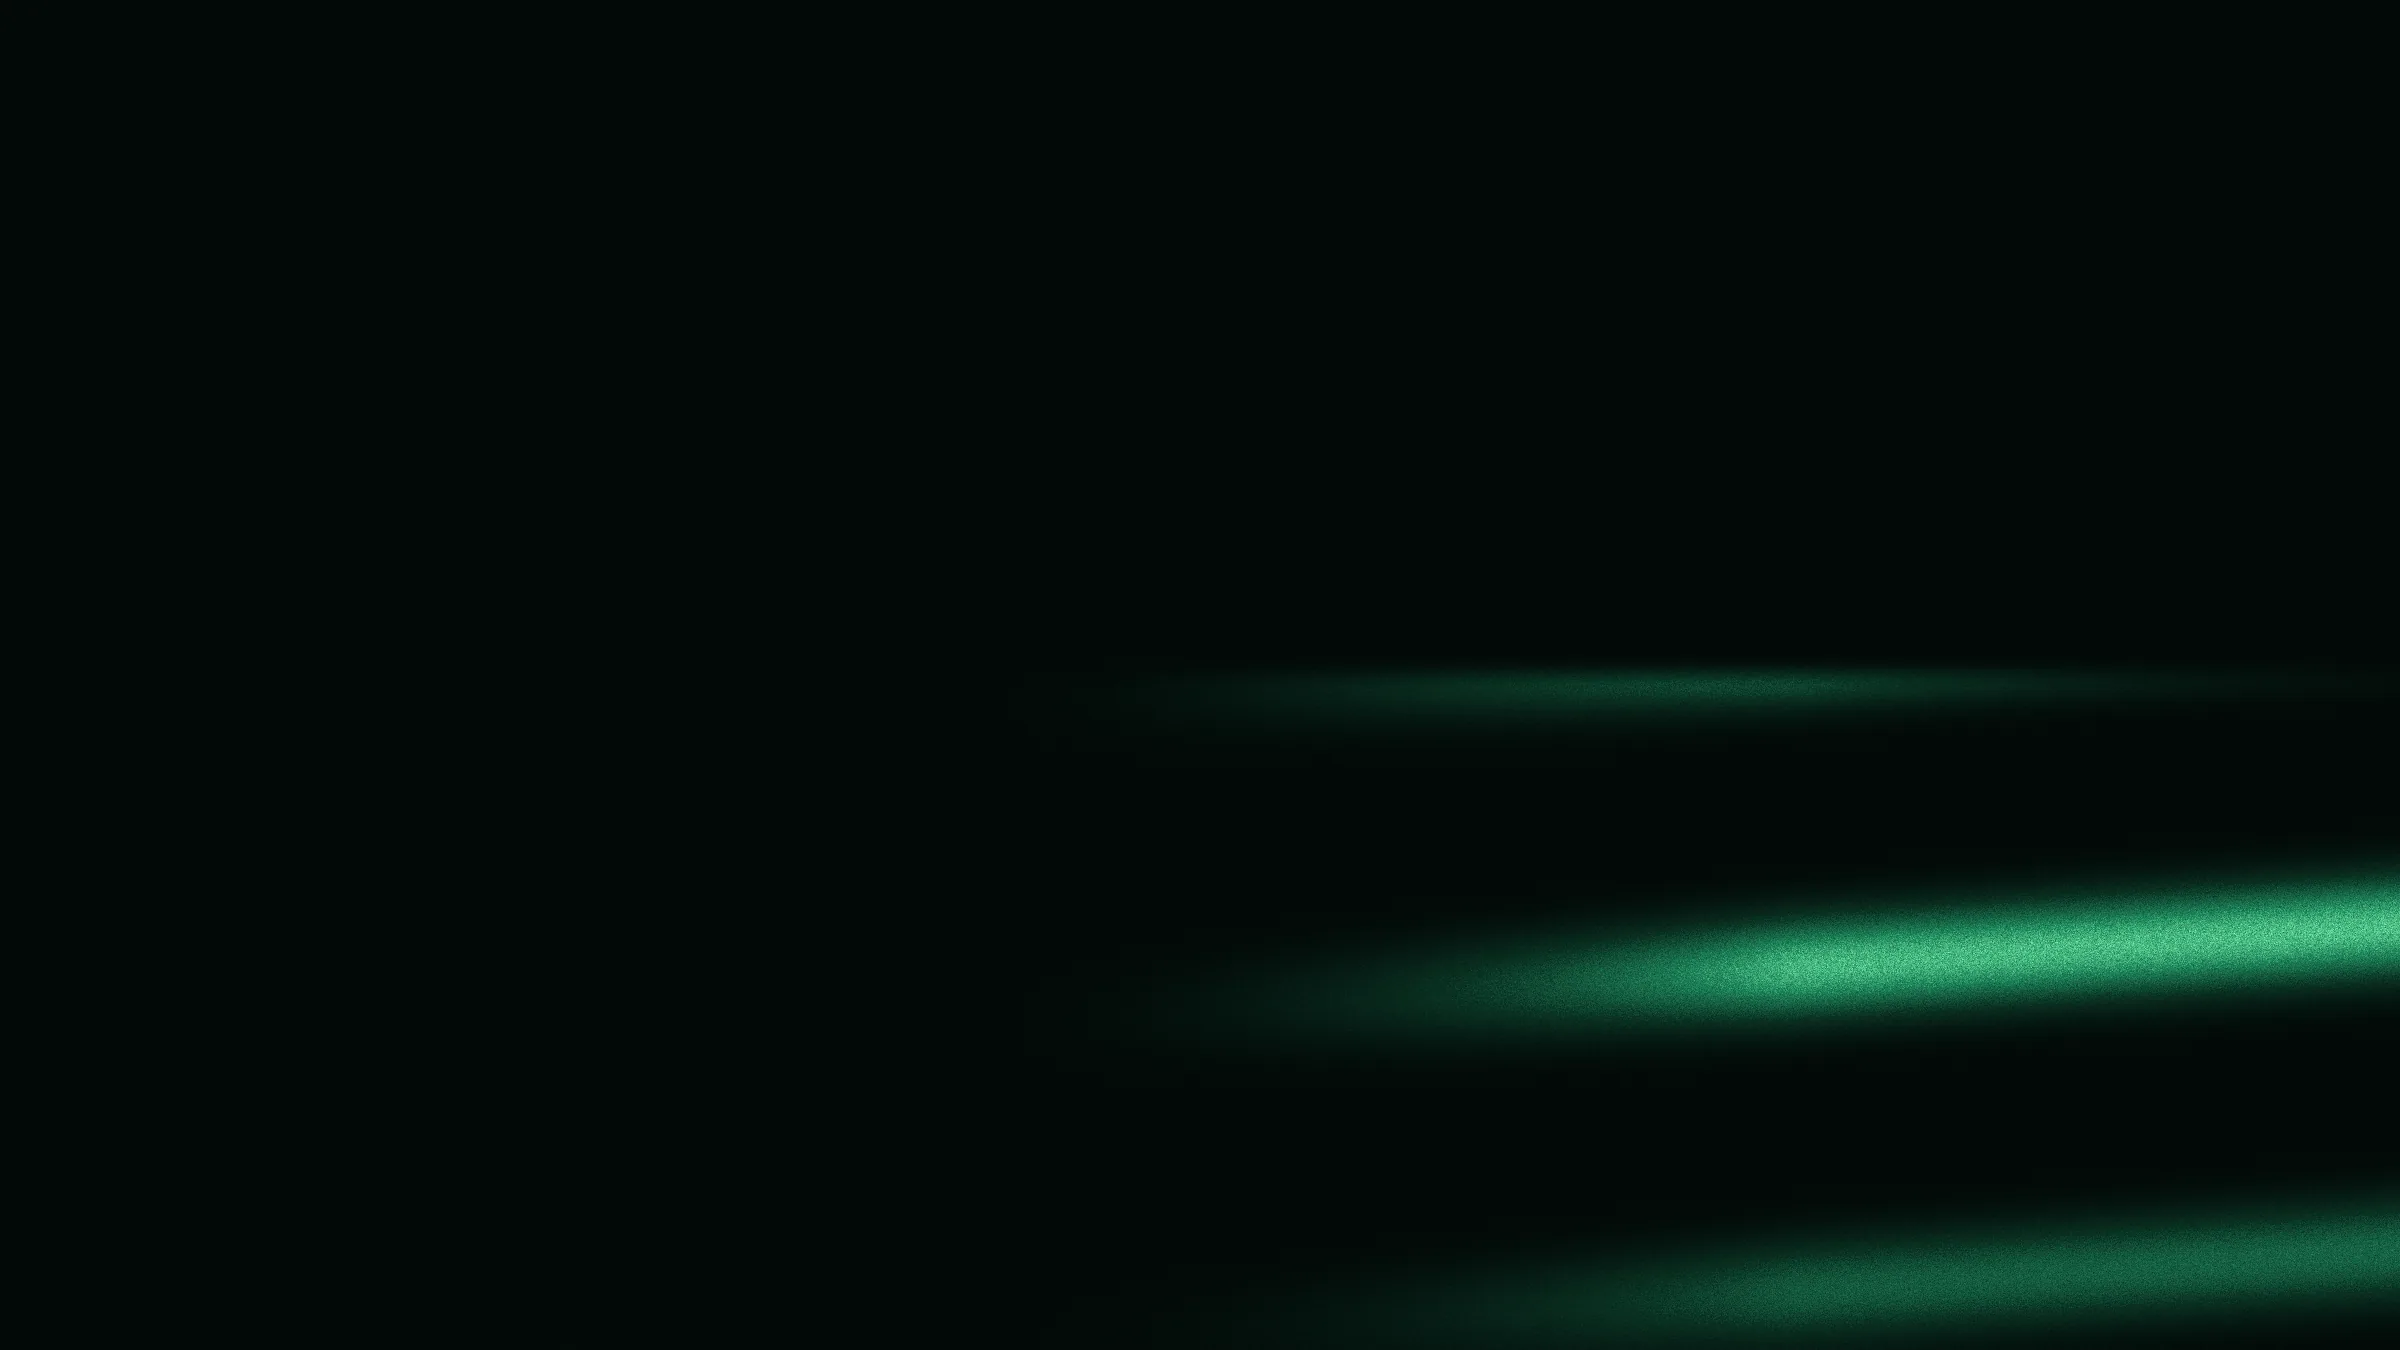
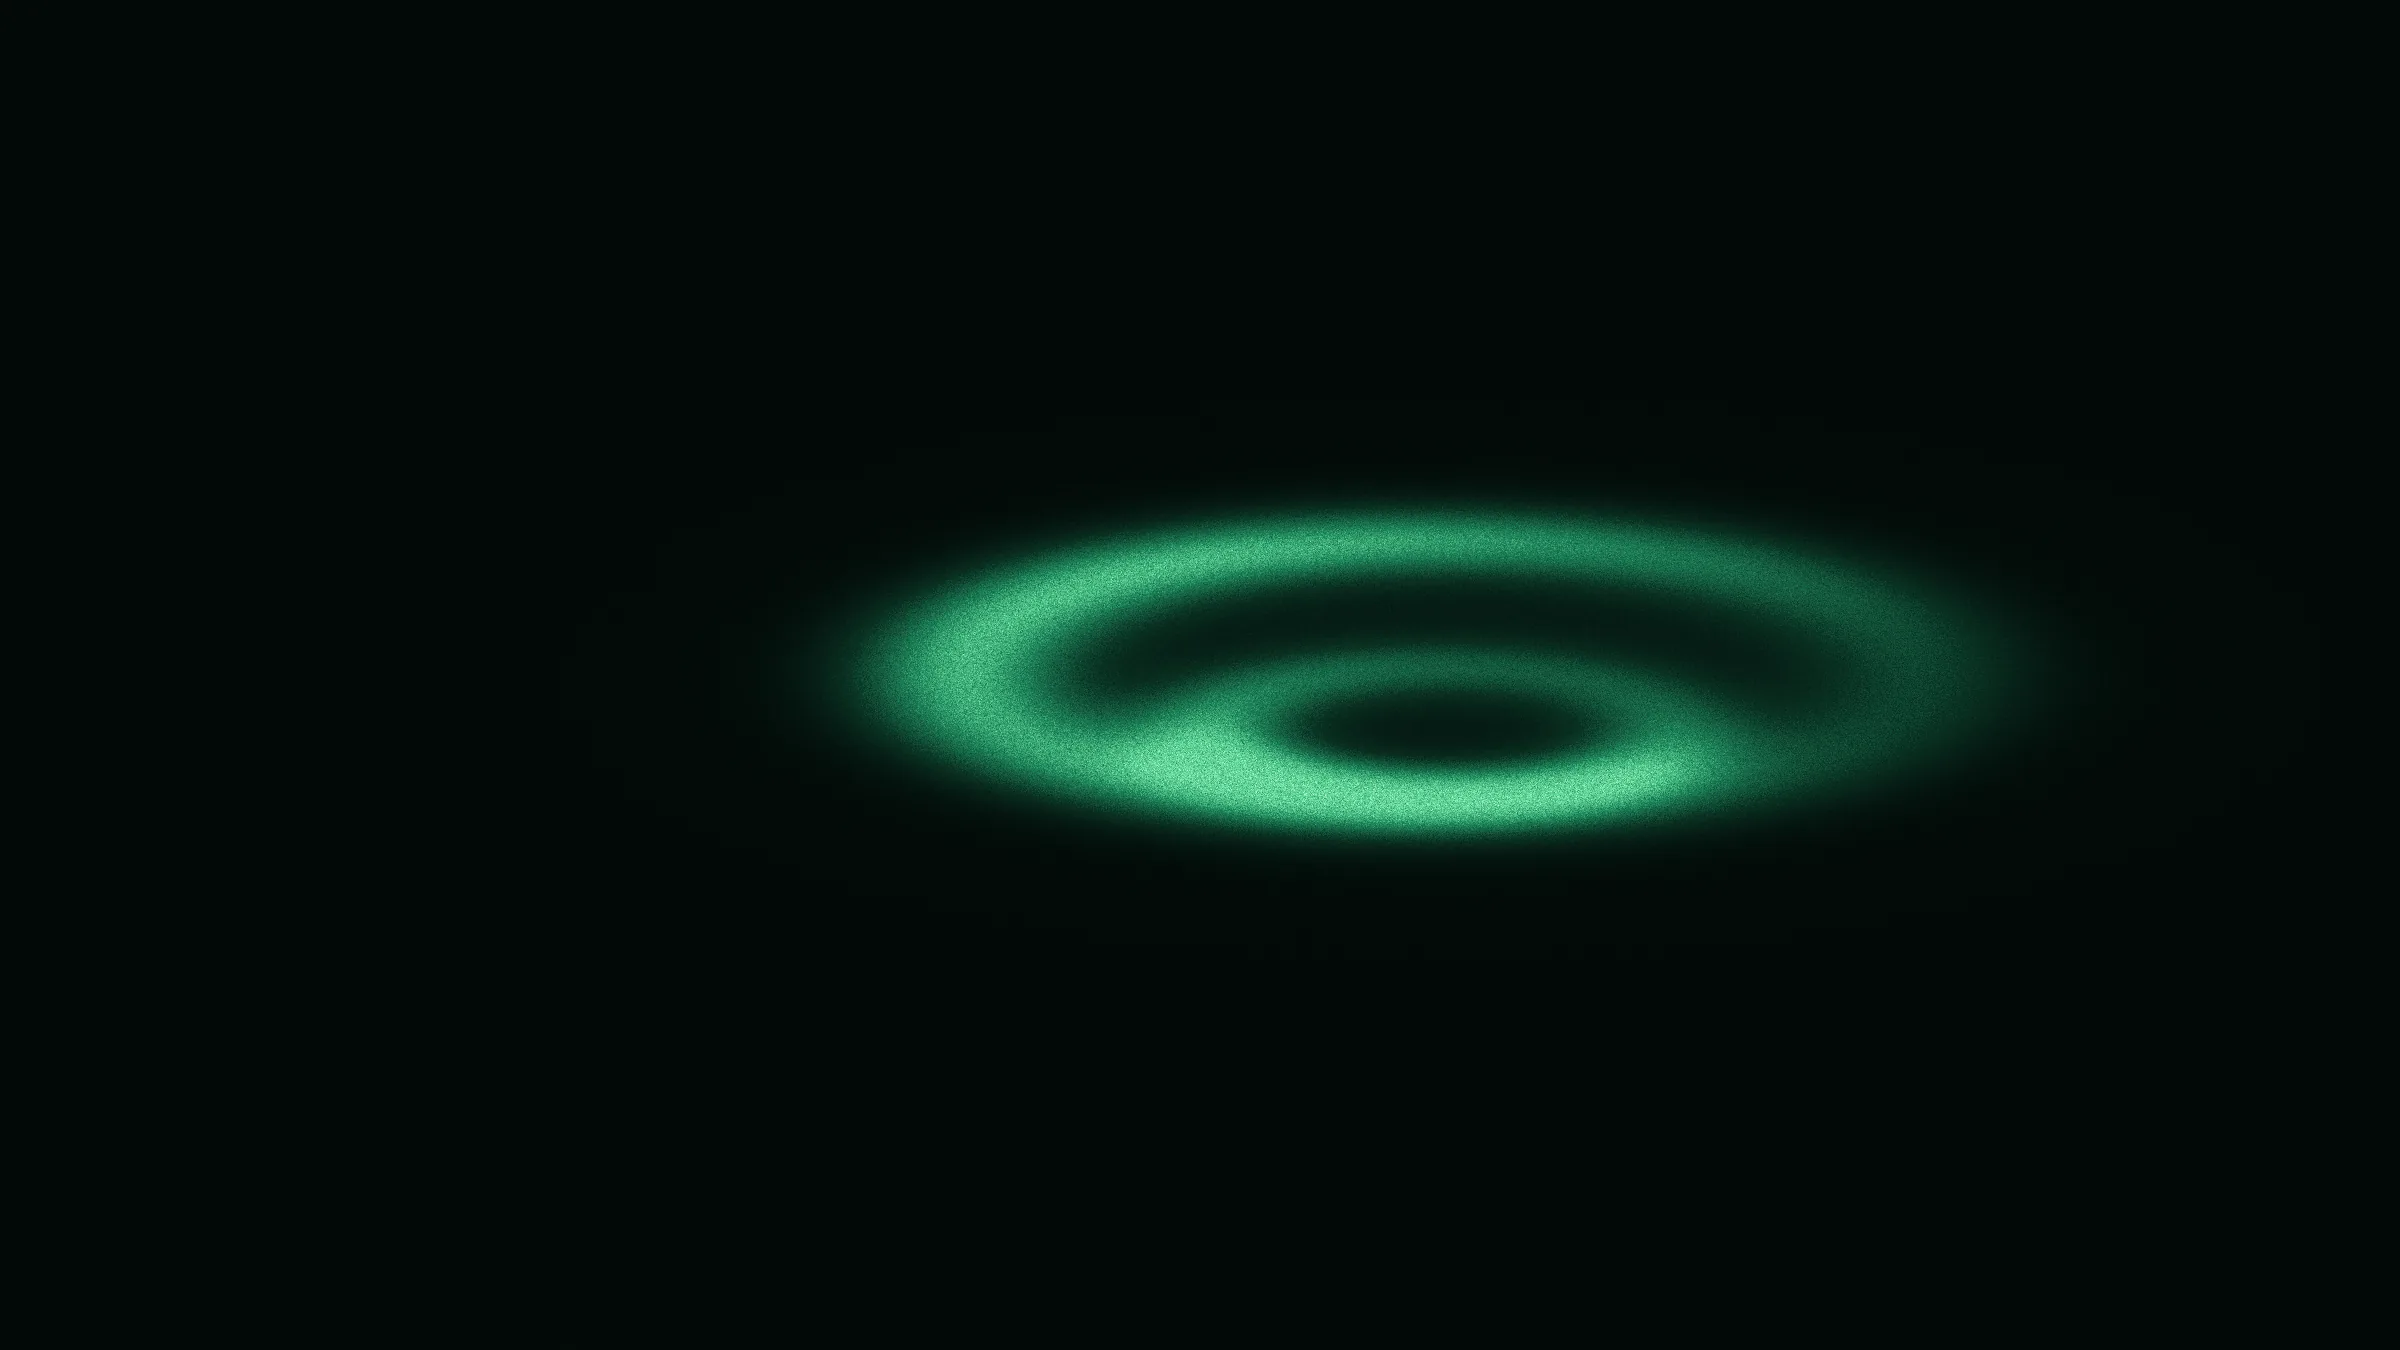
fix(backdrop): Contact V 파 방향 반전, About 을 히어로 RING 의 수평 변주로 교체
- Contact: 화살표가 왼쪽을 가리키고 있었다. 꼭짓점을 오른쪽(0.88)으로 옮기고
  `behind = -x` 로 뒤집어 오른쪽(전진)을 가리키게 했다. 부호 하나가 방향을 정한다
- About: 일자 수평파(PLANE)에서 **히어로 RING 의 수평 변주**로 교체.
  좌표계 세로를 3.6 배 눌러 원을 가로 타원으로 만들면 고리의 호가 수평 띠처럼
  읽힌다. 첫 화면과 같은 형태로 같은 말을 하되 페이지 배경이라 눕힌 것이다.
  띠만 남으면 히어로와의 연결이 끊긴다는 판단

PLANE 은 어휘 표에 남겨 두되 현재 미사용으로 표시했다 — 파원 구성으로서는
유효하고 필요해지면 다시 쓸 수 있다. 교체 사실도 문서에 기록했다.

Services(NODE) · Technology(WAVEFRONT) · Projects(LATTICE) 는 손대지 않았다.
측정: about 6.2% · contact 5.0% — 상한 20% 안.

Changed region(s): [[0.3438, 0.3733, 0.8438, 0.6533], [0.5625, 0.6222, 1.0, 0.7778], [0.625, 0.8711, 1.0, 0.9956]]

diff --git a/src/content/media.ts b/src/content/media.ts
@@ -32,14 +32,14 @@ export const mediaManifest = mediaManifestSchema.parse({
   "about-backdrop": {
     kind: "image",
     src: "/media/about-field.webp",
-    alt: "완만하게 기운 초록빛 수평 파동 띠",
+    alt: "가로로 길게 늘어난 초록빛 고리 형태의 광장(光場)",
     clearance: "self-produced",
   },
   // Contact 페이지 전체 배경 — 홈 CTA 와 같은 간섭 무늬를 넓고 조용하게.
   "contact-backdrop": {
     kind: "image",
     src: "/media/contact-page-field.webp",
-    alt: "왼쪽 꼭짓점에서 퍼져 나가는 초록빛 V 자 파면",
+    alt: "오른쪽을 가리키는 초록빛 V 자 파면",
     clearance: "self-produced",
   },
   // 본문 페이지 전체 배경 3종 — About·Contact 보다 밝고 파동의 중심이 화면 안에 있다.

diff --git a/scripts/gen-fields.py b/scripts/gen-fields.py
@@ -7,8 +7,8 @@
 생성물:
   home-hero-field.webp     겹친 고리 — 토로이달 발광체 (RING)
   home-contact-field.webp  두 파동원의 간섭 무늬 — 쌍곡선 프린지 (FRINGE)
-  about-field.webp         일자 수평파 (PLANE) — About 페이지 배경
-  contact-page-field.webp  V 파 · 뱃머리파 (BOW) — Contact 페이지 배경
+  about-field.webp         RING 의 수평 변주 — About 페이지 배경
+  contact-page-field.webp  V 파 · 뱃머리파 (BOW, 오른쪽 방향) — Contact 페이지 배경
   services-field.webp      정상파의 마디 (NODE) — Services 페이지 배경
   projects-field.webp      확정된 코어 (RING) — Projects 페이지 배경
   technology-field.webp    중심이 보이는 파면 (WAVEFRONT) — Technology 페이지 배경
@@ -169,46 +169,56 @@ def render_icon(path: pathlib.Path, size: int) -> None:
 
 
 def build_about_field() -> np.ndarray:
-    """일자 수평파. 파원이 무한히 먼 **평면파**다.
+    """히어로의 `RING` 을 **가로로 늘인 것**. 같은 형태의 축척 변주다.
 
-    뜻(컨셉 §2): 파면 — 다만 곡률이 사라진 상태. 방향이 하나로 정해져 흔들리지 않는다.
-    About 은 원칙을 말하는 자리이므로, 퍼져 나가는 파문보다 **가지런한 결**이 맞다.
+    뜻(컨셉 §2): 가능성의 장 — 히어로와 같다. 사이트 첫 화면과 About 이 같은 말을 하되,
+    About 은 페이지 전체 배경이므로 세로를 눌러 **수평으로 흐르게** 만든다.
 
-    구현: `cos(k·y)` 로 수평 띠를 만들고, 아주 약한 기울기를 줘 완전한 평행을 피한다.
-    수학적으로 완벽한 평행선은 인쇄물 무늬처럼 보인다.
+    새 형태가 아니다(컨셉 §4 — 파원 구성이 같다). 좌표계의 세로를 크게 곱하면
+    원이 가로로 긴 타원이 되고, 고리의 호가 수평 띠처럼 읽힌다.
     """
-    x, y = grid(0.55, 0.50, squash=1.0)
+    # squash 를 크게 줄수록 원이 가로로 납작해진다.
+    x, y = grid(0.60, 0.50, squash=3.6)
 
-    # 아주 약한 기울기 — 완전 수평이면 벽지가 된다.
-    phase = y * 13.0 + x * 0.9
-    bands = (0.5 + 0.5 * np.cos(phase)) ** 3.4
+    outer = ring(x, y, radius=0.72, width=0.185)
+    outer *= angular_weight(x, y, peak_deg=200, spread=0.55)
 
-    # 오른쪽으로 갈수록 또렷해진다. 왼쪽은 카피 자리라 비운다.
-    lateral = np.clip((x + 0.55) / 1.25, 0.0, 1.0) ** 1.6
-    vertical = np.exp(-((y / 1.15) ** 2.6))
+    inner_y = y - 0.30
+    inner = ring(x, inner_y, radius=0.34, width=0.135)
+    inner *= angular_weight(x, inner_y, peak_deg=115, spread=0.50)
 
-    field = bands * lateral * vertical
-    return np.clip(np.clip(field, 0.0, 1.0) ** 1.25 * 0.80, 0.0, 1.0)
+    halo = np.exp(-((np.sqrt(x**2 + y**2) / 1.00) ** 2)) * 0.24
+
+    field = outer * 0.92 + inner * 0.78 + halo
+
+    # 가장자리는 검정으로 — 왼쪽 카피 자리가 살아야 한다.
+    vignette = np.exp(-((np.sqrt((x / 1.45) ** 2 + (y / 2.60) ** 2)) ** 2.6))
+    field *= vignette
+
+    return np.clip(np.clip(field, 0.0, 1.0) ** 1.35 * 0.80, 0.0, 1.0)
 
 
 def build_contact_page_field() -> np.ndarray:
-    """V 파(뱃머리파). 움직이는 파원이 뒤로 남기는 쐐기 모양 파면.
+    """V 파(뱃머리파). 움직이는 파원이 뒤로 남기는 쐐기.
 
     뜻(컨셉 §2): 파면 — **시작점이 있고 거기서부터 퍼진다.**
     "START A PROJECT" 는 무언가가 출발하는 자리이므로 이 형태를 쓴다.
 
-    구현: 꼭짓점에서 `|y|` 와 `x` 의 선형 결합을 위상으로 삼으면 V 자 파면이 나온다.
-    꼭짓점 앞쪽(파원이 아직 지나지 않은 영역)은 비운다.
+    방향: 꼭짓점을 **오른쪽**에 두고 쐐기가 왼쪽으로 열린다 — 화살표가 오른쪽(전진)을 가리킨다.
+    구현: 꼭짓점 기준으로 `|y| − (꼭짓점까지의 거리)·기울기` 를 위상으로 삼는다.
+    꼭짓점 **바깥쪽**(파원이 아직 지나지 않은 영역)은 비운다.
     """
-    x, y = grid(0.30, 0.52, squash=1.0)
+    x, y = grid(0.88, 0.52, squash=1.0)
 
-    # 쐐기 각도 — 값이 작을수록 V 가 벌어진다.
+    # 꼭짓점 왼쪽이 양수가 되도록 뒤집는다 — 이 부호가 화살표 방향을 정한다.
+    behind = -x
+
     slope = 0.62
-    phase = (np.abs(y) - x * slope) * 15.0
+    phase = (np.abs(y) - behind * slope) * 15.0
     wedge = (0.5 + 0.5 * np.cos(phase)) ** 3.0
 
     # 쐐기 안쪽만 남긴다 — 꼭짓점 앞은 파면이 아직 도달하지 않은 자리다.
-    inside = np.clip((x * slope - np.abs(y) + 0.30) / 0.35, 0.0, 1.0)
+    inside = np.clip((behind * slope - np.abs(y) + 0.30) / 0.35, 0.0, 1.0)
 
     decay = np.exp(-((np.sqrt(x**2 + y**2) / 1.55) ** 2.0))
 

diff --git a/docs/비주얼_컨셉_파동과_간섭.md b/docs/비주얼_컨셉_파동과_간섭.md
@@ -98,6 +98,9 @@
 - 뜻: **가능성의 장.** 아직 확정되지 않은, 중심을 가진 에너지.
 - 구현: 중심 거리 기반 가우시안 고리 두 개를 겹치고 각도별로 밝기를 달리한다.
 - 쓰는 곳: **히어로** — 사이트의 첫 진술. "여기서부터 가능성을 펼친다."
+- **수평 변주**: 좌표계의 세로를 크게 곱하면(`squash`) 원이 가로로 긴 타원이 되고
+  고리의 호가 수평 띠처럼 읽힌다. **About 페이지 배경**이 이것이다 —
+  첫 화면과 같은 말을 하되 페이지 전체 배경이므로 눕혔다. 새 형태가 아니다.
 
 ### ② 프린지 — 두 파동원의 간섭 무늬 `FRINGE`
 
@@ -119,17 +122,20 @@
   사방으로 퍼뜨리면 동심원 과녁이 되어 형태가 죽는다.
 - 쓰는 곳: **Technology 페이지 배경** — 발원점을 화면 안에 두어 중심이 보인다.
 
-### ⑤ 평면파 — 일자 수평파 `PLANE` ✅
+### ⑤ 평면파 — 일자 수평파 `PLANE` _(구현했다가 교체됨)_
 
 - 뜻: 파면에서 **곡률이 사라진 상태.** 파원이 무한히 멀어 방향이 하나로 정해진다.
-- 구현: `cos(k·y)` 로 수평 띠. **아주 약한 기울기를 준다** — 완전한 평행선은 인쇄물 무늬로 보인다.
-- 쓰는 곳: **About 페이지 배경** — 원칙을 말하는 자리라 파문보다 가지런한 결이 맞다.
+- About 배경으로 한 번 적용했다가, 히어로와 같은 말을 하도록 **`RING` 의 수평 변주로 교체**했다.
+  띠만 남으면 사이트 첫 화면과의 연결이 끊긴다는 판단이다.
+- 어휘 표에는 남겨 둔다 — 파원 구성으로서는 유효하고, 필요해지면 다시 쓸 수 있다.
 
 ### ⑥ 뱃머리파 — V 파 `BOW` ✅
 
 - 뜻: **시작점이 있고 거기서부터 퍼진다.** 움직이는 파원이 뒤로 남기는 쐐기.
-- 구현: 꼭짓점에서 `|y| − x·기울기` 를 위상으로. 꼭짓점 **앞쪽은 비운다** —
+- 구현: 꼭짓점에서 `|y| − (꼭짓점까지 거리)·기울기` 를 위상으로. 꼭짓점 **바깥쪽은 비운다** —
   파원이 아직 지나지 않은 자리다.
+- **방향**: 꼭짓점을 오른쪽에 두어 화살표가 **오른쪽(전진)** 을 가리킨다.
+  부호 하나(`behind = -x`)가 방향을 정한다.
 - 쓰는 곳: **Contact 페이지 배경** — "START A PROJECT", 무언가가 출발하는 자리.
 
 ### ⑦ 격자 간섭 — 두 직교 평면파 `LATTICE` ✅
@@ -168,7 +174,7 @@
 
 | 자산               | 평균 휘도 | 밝은 화소 |
 | ------------------ | --------- | --------- |
-| about-field        | 12.1      | 3.8%      |
+| about-field        | 14.7      | 6.2%      |
 | technology-field   | 13.6      | 3.5%      |
 | contact-page-field | 14.1      | 5.0%      |
 | projects-field     | 16.0      | 5.2%      |
@@ -207,8 +213,8 @@
 | 홈 히어로                       | `RING`      | ✅ 적용                                   |
 | 파비콘 · 앱 아이콘              | `RING`      | ✅ 적용 (작은 크기용 재작도)              |
 | 홈 마무리 CTA                   | `FRINGE`    | ✅ 적용                                   |
-| About 페이지 배경               | `PLANE`     | ✅ 적용 (일자 수평파)                     |
-| Contact 페이지 배경             | `BOW`       | ✅ 적용 (V 파)                            |
+| About 페이지 배경               | `RING`      | ✅ 적용 (수평 변주 — 히어로와 같은 형태)  |
+| Contact 페이지 배경             | `BOW`       | ✅ 적용 (V 파 — 오른쪽 방향)              |
 | Services 페이지 배경            | `NODE`      | ✅ 적용 (해가 사라지는 지점)              |
 | Projects 페이지 배경            | `LATTICE`   | ✅ 적용 (두 직교 평면파)                  |
 | Technology 페이지 배경          | `WAVEFRONT` | ✅ 적용 (발원점 화면 안)                  |
